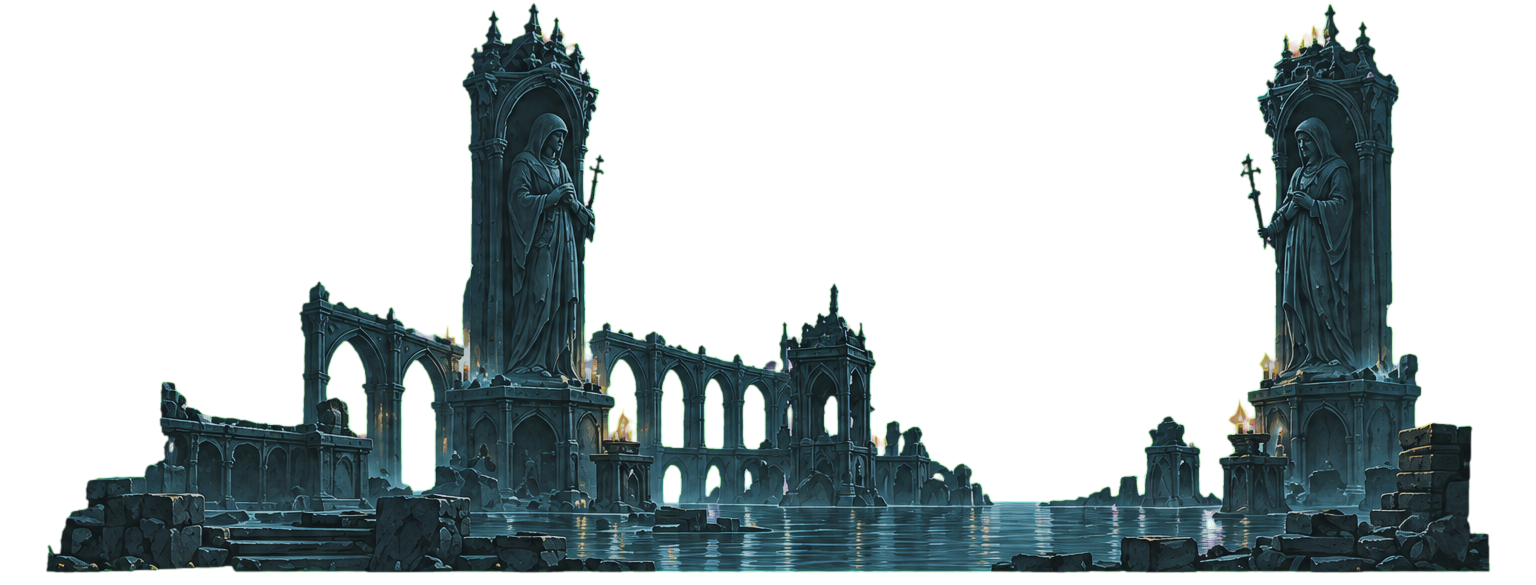
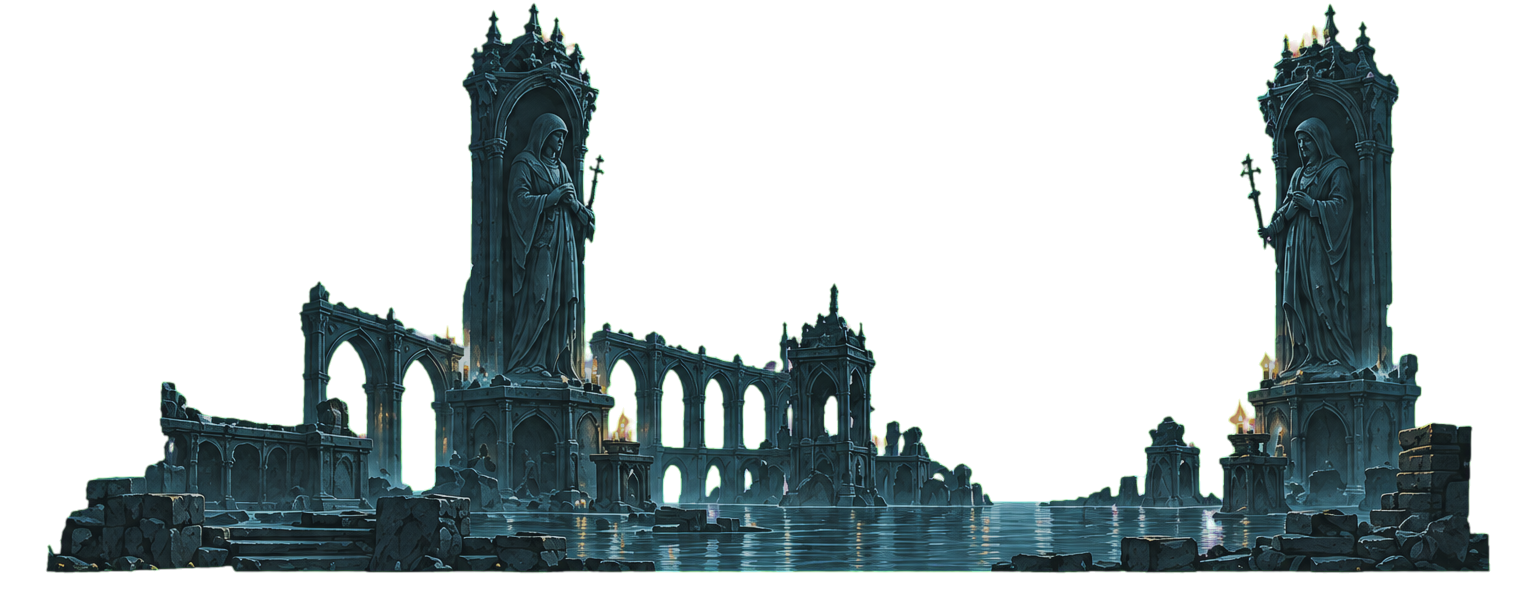
WIP: build HD aceita Éon com far+mid (asas antigas na frente até as novas chegarem); base do mid medida pelo pé das estruturas; Fome/Corrente/Espelho com mid HD

Changed region(s): [[0.0312, 0.0615, 0.9688, 0.9846], [0.2812, 0.0308, 0.4062, 0.4615]]

diff --git a/tools/cenario7/build_hd.py b/tools/cenario7/build_hd.py
@@ -12,14 +12,15 @@ e grava em `assets/backgrounds/hd/`:
   eon_<i>_floor.png          o chão pintado (abaixo da linha do chão das asas), luz achatada
 e reescreve o bloco "# >>> GERADO HD" de `scripts/fx/scenery_library.gd`.
 
-LINHA DO CHÃO MEDIDA (o GPT não acerta os 77% pedidos): para mid/asas, a 1ª linha
-em que ≥ 90% das colunas são opacas (alfa ≥ 0,5) — onde começa a faixa contínua
-de chão/água. Para o far (sem alfa), o "horizonte" = a última linha com detalhe
+LINHA DO CHÃO MEDIDA (o GPT não acerta os 77% pedidos): para as asas, a 1ª linha
+em que ≥ 90% das colunas são opacas (alfa ≥ 0,5) — onde começa o chão; para o mid,
+a BASE: a última linha com ≥ 8% das colunas opacas (pé das estruturas). Para o far (sem alfa), o "horizonte" = a última linha com detalhe
 (energia de borda ≥ 30% da mediana do miolo), abaixo dela só névoa.
 No jogo, cada camada é posta com a SUA linha em Scenery.FLOOR_Y (alinhamento por
 camada, não por porcentagem).
 
-Uso:  python tools/cenario7/build_hd.py [--only 0,1] [--sheet saida.png]
+Uso:  python tools/cenario7/build_hd.py [--only 0,1] [--partial]
+(--partial aceita Éon só com o far — para teste; o jogo só deve receber Éon completo.)
 Sem libs fora do pipeline (PIL, numpy, opencv).
 """
 import os, sys, re, glob, json
@@ -102,7 +103,18 @@ def floor_line(a, frac=0.90):
 	"""1ª linha (de cima) em que ≥ frac das colunas são opacas."""
 	op = (a >= 0.5).mean(1)
 	rows = np.where(op >= frac)[0]
-	return int(rows[0]) if rows.size else int(np.where(op > 0.02)[0].max())
+	if rows.size:
+		return int(rows[0])
+	# sem faixa contínua (espelhos soltos, colunas): a base = última linha com ≥ 3% de conteúdo
+	return int(np.where(op > 0.03)[0].max())
+
+
+def base_line(a):
+	"""MID: a base = a última linha com ≥ 8% das colunas opacas (o pé das
+	estruturas; grades e colunas finas não chegam a 50% numa linha, por isso
+	não dá pra exigir faixa cheia)."""
+	op = (a >= 0.5).mean(1)
+	return int(np.where(op >= 0.08)[0].max())
 
 
 def far_horizon(rgb):
@@ -171,7 +183,14 @@ def find(i, kind):
 def build_eon(i, haze):
 	d = {}
 	fars, mids, wings = find(i, 'far'), find(i, 'mid'), find(i, 'wings')
-	if not fars:
+	# Só Éon COMPLETO (far + mid + asas): o far novo é "céu e distância, sem
+	# chão"; as estruturas do meio que a pintura antiga tinha no far (gaiolas da
+	# Corrente, molduras do Espelho) vêm no mid novo. Far novo + camadas antigas
+	# perdia a cara do Éon (conferido nas capturas de 19/10) — então espera o jogo.
+	# Asas podem faltar (chegam depois): aí o jogo usa as asas/entulho ANTIGOS na
+	# frente do mid novo (Scenery._build_painted).
+	if not fars or (not mids and '--partial' not in sys.argv):
+		log(f'eon {i}: incompleto (far={len(fars)} mid={len(mids)} asas={len(wings)}) — fica o fundo antigo')
 		return None
 	# ASAS primeiro: a linha do chão delas define a escala do Éon.
 	wl = []
@@ -195,10 +214,15 @@ def build_eon(i, haze):
 	for p in mids:
 		v = os.path.splitext(p)[0][-1]
 		rgb, a, M = magenta_key(load_rgb(p))
-		fl = floor_line(a)
+		fl = base_line(a)
+		# conteúdo pendurado no topo (cortinas da Fome, correntes da Corrente):
+		# some em degradê, sem linha reta quando a câmera sobe
+		if (a[:4] > 0.5).mean() > 0.03:
+			yy = np.arange(a.shape[0], dtype=np.float32)[:, None]
+			a = a * np.clip(yy / 90.0, 0, 1) ** 0.8
 		rows = np.where(a.max(1) > 0.02)[0]
 		y0 = max(0, int(rows.min()) - 2)
-		y1 = min(a.shape[0], fl + int(30 / s))
+		y1 = min(a.shape[0], fl + int(12 / s))
 		g = grade(rgb, 'mid', haze, a)
 		save_rgba(os.path.join(OUT, f'eon_{i}_mid_{v}.png'), g[y0:y1], a[y0:y1])
 		d['mid'].append({'tex': f'eon_{i}_mid_{v}', 'w': a.shape[1], 'h': y1 - y0, 'y0': y0, 'line': fl})
@@ -286,6 +310,10 @@ if __name__ == '__main__':
 		d = build_eon(i, haze_of(i))
 		if d is not None:
 			hd[i] = d
+		else:
+			hd.pop(i, None)
+			for f in glob.glob(os.path.join(OUT, f'eon_{i}_*.png*')):
+				os.remove(f)
 	json.dump(hd, open(cache, 'w', encoding='utf-8'), indent=1)
 	write_lib(hd)
 	log('ok:', sorted(hd))
